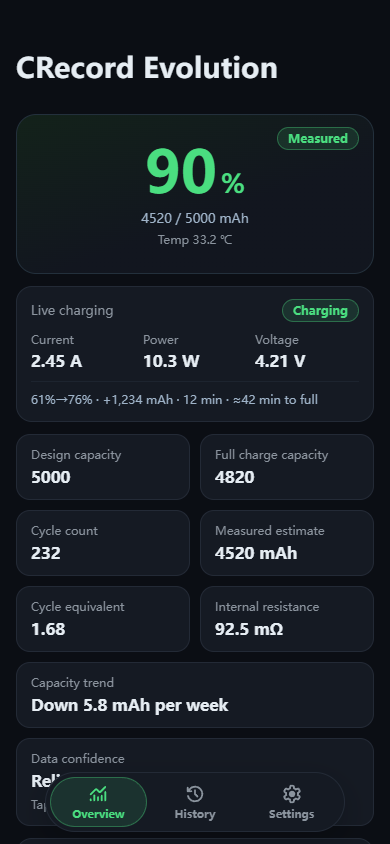
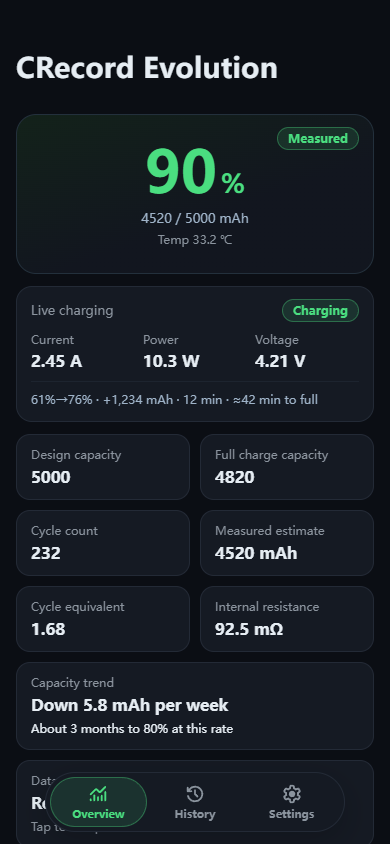
feat(ui): 历史页长期档案与充入统计、概览终点预测
- 历史趋势视图新增「长期容量档案」主卡（daily 汇总、独立于范围筛选），支持点按读数与高亮；摘要扩到六格：总充入/平均每次/平均时长，单位写进小标题，窄屏不再把「18420 mAh」断成两行。
- 概览趋势格按后端 weeks_to_80 显示「约 N 个月后降至 80%」：<9 周按周、其余按月，文案走 plural 保证英文单复数，前端不做斜率外推。
- smoke 增加六张摘要卡、长期档案主卡/点按高亮与终点预测断言；README 中英截图按新界面重拍。

diff --git a/webui/src/i18n.js b/webui/src/i18n.js
@@ -14,6 +14,9 @@ const LANGS = {
     history_summary_valid: '有效会话',
     history_summary_discharges: '放电记录',
     history_summary_samples: '采样数',
+    history_summary_charge: '总充入（mAh）',
+    history_summary_avg: '平均每次（mAh）',
+    history_summary_duration: '平均时长（分钟）',
     // 历史页：记录 / 趋势视图切换与范围筛选
     hist_mode_records: '记录',
     hist_mode_trends: '趋势',
@@ -33,6 +36,8 @@ const LANGS = {
     hist_empty_filter: '该筛选下暂无记录',
     hist_empty_trends: '趋势数据还不够，继续使用后会出现',
     hist_trend_capacity: '容量趋势',
+    hist_trend_archive: '长期容量档案',
+    hist_archive_note: '每日汇总，永久保留',
     hist_trend_sessions: '充电会话',
     hist_trend_discharge: '放电记录',
     hist_trend_rest: '静置电压',
@@ -183,6 +188,9 @@ const LANGS = {
     trend_days: ' · {n}/21 天',
     trend_down: '每周衰减 {n} mAh',
     trend_up: '每周回升 {n} mAh',
+    life_months: '约 {n} 个月后降至 80%',
+    life_weeks_one: '约 {n} 周后降至 80%',
+    life_weeks: '约 {n} 周后降至 80%',
 
     // 质量哨兵（ema / 中段 / 放电 / 内核四路互检）
     qual_ok: '可信',
@@ -237,6 +245,9 @@ const LANGS = {
     history_summary_valid: 'Valid sessions',
     history_summary_discharges: 'Discharges',
     history_summary_samples: 'Samples',
+    history_summary_charge: 'Charged (mAh)',
+    history_summary_avg: 'Avg charge (mAh)',
+    history_summary_duration: 'Avg duration (min)',
     // 历史页：记录 / 趋势视图切换与范围筛选
     hist_mode_records: 'Records',
     hist_mode_trends: 'Trends',
@@ -256,6 +267,8 @@ const LANGS = {
     hist_empty_filter: 'No records for this filter',
     hist_empty_trends: 'Not enough trend data yet; keep using the module',
     hist_trend_capacity: 'Capacity trend',
+    hist_trend_archive: 'Capacity archive',
+    hist_archive_note: 'daily summary, kept forever',
     hist_trend_sessions: 'Sessions',
     hist_trend_discharge: 'Discharge',
     hist_trend_rest: 'Resting V',
@@ -408,6 +421,9 @@ const LANGS = {
     trend_days: ' · {n} of 21 days',
     trend_down: 'Down {n} mAh per week',
     trend_up: 'Up {n} mAh per week',
+    life_months: 'About {n} months to 80% at this rate',
+    life_weeks_one: 'About {n} week to 80% at this rate',
+    life_weeks: 'About {n} weeks to 80% at this rate',
 
     // 质量哨兵（ema / 中段 / 放电 / 内核四路互检）
     qual_ok: 'Reliable',

diff --git a/webui/src/history/trends.jsx b/webui/src/history/trends.jsx
@@ -112,7 +112,7 @@ function TrendEmpty({ message }) {
   );
 }
 
-const NO_SEL = { cap: null, ses: null, tileKey: null, tileIndex: null };
+const NO_SEL = { cap: null, archive: null, ses: null, tileKey: null, tileIndex: null };
 
 // 趋势视图：派生数据全部在 buildTrendModel，这里只维护「哪张图的哪个点被选中」
 // 并把模型排成两张 hero + 四张小图。
@@ -126,7 +126,7 @@ function TrendsView({ trends, openTile, onToggleTile }) {
     },
     [trends]
   );
-  const selMap = { cap: sel.cap, ses: sel.ses, tiles: {} };
+  const selMap = { cap: sel.cap, archive: sel.archive, ses: sel.ses, tiles: {} };
   if (openTile != null && sel.tileKey === openTile) selMap.tiles[openTile] = sel.tileIndex;
   const model = buildTrendModel(trends, t, lang, selMap);
   if (!model.hasAnyData) return <TrendEmpty message={t('hist_empty_trends')} />;
@@ -134,6 +134,9 @@ function TrendsView({ trends, openTile, onToggleTile }) {
   const hint = t('tap_hint');
   function selectCap(index) {
     setSel((old) => ({ ...old, cap: index }));
+  }
+  function selectArchive(index) {
+    setSel((old) => ({ ...old, archive: index }));
   }
   function selectSes(index) {
     setSel((old) => ({ ...old, ses: index }));
@@ -163,6 +166,17 @@ function TrendsView({ trends, openTile, onToggleTile }) {
     hint,
     onSelect: selectCap,
   };
+  const archiveHero = {
+    title: t('hist_trend_archive'),
+    value: model.archiveVal,
+    svg: model.archiveSvg,
+    empty: t('hist_empty_trends'),
+    caption: model.archiveCap,
+    points: model.archiveRows,
+    det: selectedText(model.archiveRows, model.archiveFormat, sel.archive),
+    hint,
+    onSelect: selectArchive,
+  };
   const sessionsHero = {
     title: t('hist_trend_sessions'),
     value: model.sesVal,
@@ -189,6 +203,7 @@ function TrendsView({ trends, openTile, onToggleTile }) {
   return (
     <div class="trend-wrap">
       <TrendHero {...capacityHero} />
+      <TrendHero {...archiveHero} />
       <TrendHero {...sessionsHero} />
       <TrendGrid tiles={tiles} openTile={openTile} onToggleTile={toggleTile} />
     </div>

diff --git a/webui/src/ui/overviewModel.js b/webui/src/ui/overviewModel.js
@@ -143,7 +143,19 @@ function overviewTrendText(doc, hasTrendMahPerWeek, trendMahPerWeek, t) {
   return t('trend_up', { n: fmtFix(trendMahPerWeek, 1) });
 }
 
-// 可信度详情：只列本机已有的容量口径，按固定顺序用「 / 」拼接
+// 终点预测：后端只在趋势显著、方向为衰减且未跌破 80% 时下发 weeks_to_80。
+// 前端只做单位换算（<9 周按周，其余按月，1 个月≈4.345 周），不拿斜率外推；
+// 月份最小为 2，只有周数可能为 1，故周文案走 plural。
+function overviewLifeText(doc, lang, t) {
+  const weeks = doc && doc.weeks_to_80 != null ? Number(doc.weeks_to_80) : NaN;
+  if (!isFinite(weeks) || weeks < 1) return null;
+  if (weeks < 9) {
+    return plural(lang, weeks, 'life_weeks_one', 'life_weeks', { n: fmtInt(weeks) });
+  }
+  const months = Math.max(2, Math.round(weeks / 4.345));
+  return t('life_months', { n: fmtInt(months) });
+}
+
 function overviewQualDetail(quality, t) {
   return QUAL_CHANNELS.filter(function (channelKey) {
     return quality[channelKey + '_mah'] != null;
@@ -170,6 +182,7 @@ function buildOverviewModel(doc, lang, t) {
   const trendMahPerWeek = doc ? Number(doc.trend_mah_per_week) : NaN;
   const hasTrendMahPerWeek = doc && doc.trend_mah_per_week != null && isFinite(trendMahPerWeek);
   const trendText = overviewTrendText(doc, hasTrendMahPerWeek, trendMahPerWeek, t);
+  const lifeText = overviewLifeText(doc, lang, t);
   // 趋势线端点由后端给出（与 recent 同一份 estimates 拟合）；旧 JSON 没有这两个
   // 字段时不画虚线，避免前端拿首点+斜率外推导致线整体偏移。
   const trendLine =
@@ -232,6 +245,7 @@ function buildOverviewModel(doc, lang, t) {
     cyceqText: fmtFix(doc ? doc.cycle_equiv : null, 2),
     rmohText: doc && doc.r_moh != null ? fmtFix(doc.r_moh, 1) + ' mΩ' : t('rmoh_collecting'),
     trendText,
+    lifeText,
     qualityOk,
     qualityText,
     qualityDetailText,

diff --git a/webui/src/history/trendsModel.js b/webui/src/history/trendsModel.js
@@ -99,6 +99,18 @@ function buildTrendModel(trends, t, lang, sel) {
     estDelta = t('hist_est_delta', { n: (diff >= 0 ? '+' : '') + fmtInt(diff) });
   }
 
+  // 长期容量档案：来自永久保留的每日汇总（daily 表），不受 --days 范围筛选影响，
+  // 因此始终展示本机有史以来的容量点；点按读数与容量趋势卡同格式。
+  const archiveRows = ascRows(Array.isArray(trendData.archive) ? trendData.archive : [], 'mah');
+  const archiveSvg = archiveRows.length
+    ? svgLine(archiveRows, CHART_W, CHART_H, 'var(--accent)', null, sel.archive)
+    : '';
+  const latestArchive = archiveRows.length ? archiveRows[archiveRows.length - 1] : null;
+  const archiveVal = latestArchive ? fmtInt(latestArchive.mah) + ' mAh' : '—';
+  const archiveCap = archiveRows.length
+    ? pointsCaption(lang, pickPairs(archiveRows, 'ts', 'mah')) + ' · ' + t('hist_archive_note')
+    : '';
+
   // 充电会话：只取结算有效、且有涨幅的会话，值优先展示最近一次的涨幅。
   const sessions = (Array.isArray(trendData.sessions) ? trendData.sessions : []).filter(
     (session) => session && session.valid && isFinite(Number(session.delta_pct))
@@ -207,6 +219,7 @@ function buildTrendModel(trends, t, lang, sel) {
 
   const hasAnyData =
     capRows.length ||
+    archiveRows.length ||
     sesRows.length ||
     disAsc.length ||
     restAsc.length ||
@@ -274,6 +287,13 @@ function buildTrendModel(trends, t, lang, sel) {
       return capacityReadout(lang, row);
     },
     estDelta,
+    archiveSvg,
+    archiveVal,
+    archiveCap,
+    archiveRows,
+    archiveFormat: function (row) {
+      return capacityReadout(lang, row);
+    },
     sesBig,
     sesVal,
     sesCap,

diff --git a/webui/src/history/HistorySummary.jsx b/webui/src/history/HistorySummary.jsx
@@ -1,9 +1,11 @@
 import { HistStat, useTr } from '../ui/index.js';
 import { fmtInt } from '../core.js';
 
-// 历史页摘要：有效会话 / 放电记录 / 采样数三张统计卡。
+// 历史页摘要：有效会话 / 放电记录 / 采样数，以及有效会话的充入总量、
+// 平均每次充入与平均时长；后三格的单位写在标题里，数值列只放纯数字。
 function HistorySummary({ summary }) {
   const { t } = useTr();
+  const avgMin = summary && summary.avg_secs != null ? Math.round(summary.avg_secs / 60) : null;
   return (
     <section class="hist-summary">
       <HistStat
@@ -17,6 +19,18 @@ function HistorySummary({ summary }) {
       <HistStat
         value={summary ? fmtInt(summary.samples) : '—'}
         label={t('history_summary_samples')}
+      />
+      <HistStat
+        value={summary && summary.charge_mah != null ? fmtInt(summary.charge_mah) : '—'}
+        label={t('history_summary_charge')}
+      />
+      <HistStat
+        value={summary && summary.avg_mah != null ? fmtInt(summary.avg_mah) : '—'}
+        label={t('history_summary_avg')}
+      />
+      <HistStat
+        value={avgMin != null ? fmtInt(avgMin) : '—'}
+        label={t('history_summary_duration')}
       />
     </section>
   );

diff --git a/webui/src/ui/Stat.jsx b/webui/src/ui/Stat.jsx
@@ -1,5 +1,5 @@
 // 历史页摘要区的统计卡（HistStat）：上数值、下标题的两行布局，三张卡横排。
-// WebUI 组件统一使用 JSX（@preact/preset-vite automatic runtime）。
+// 单位统一写在标题里（如「总充入（mAh）」），数值列只放纯数字，窄屏不会断行。
 export function HistStat({ value, label }) {
   return (
     <div class="hist-stat">

diff --git a/webui/src/ui/overview.jsx b/webui/src/ui/overview.jsx
@@ -129,6 +129,7 @@ function Overview(props) {
         >
           <div class="label">{t('label_trend')}</div>
           <div class="val">{m.trendText}</div>
+          {m.lifeText ? <div class="det">{m.lifeText}</div> : null}
         </div>
         <Cell
           label={t('label_qual')}
